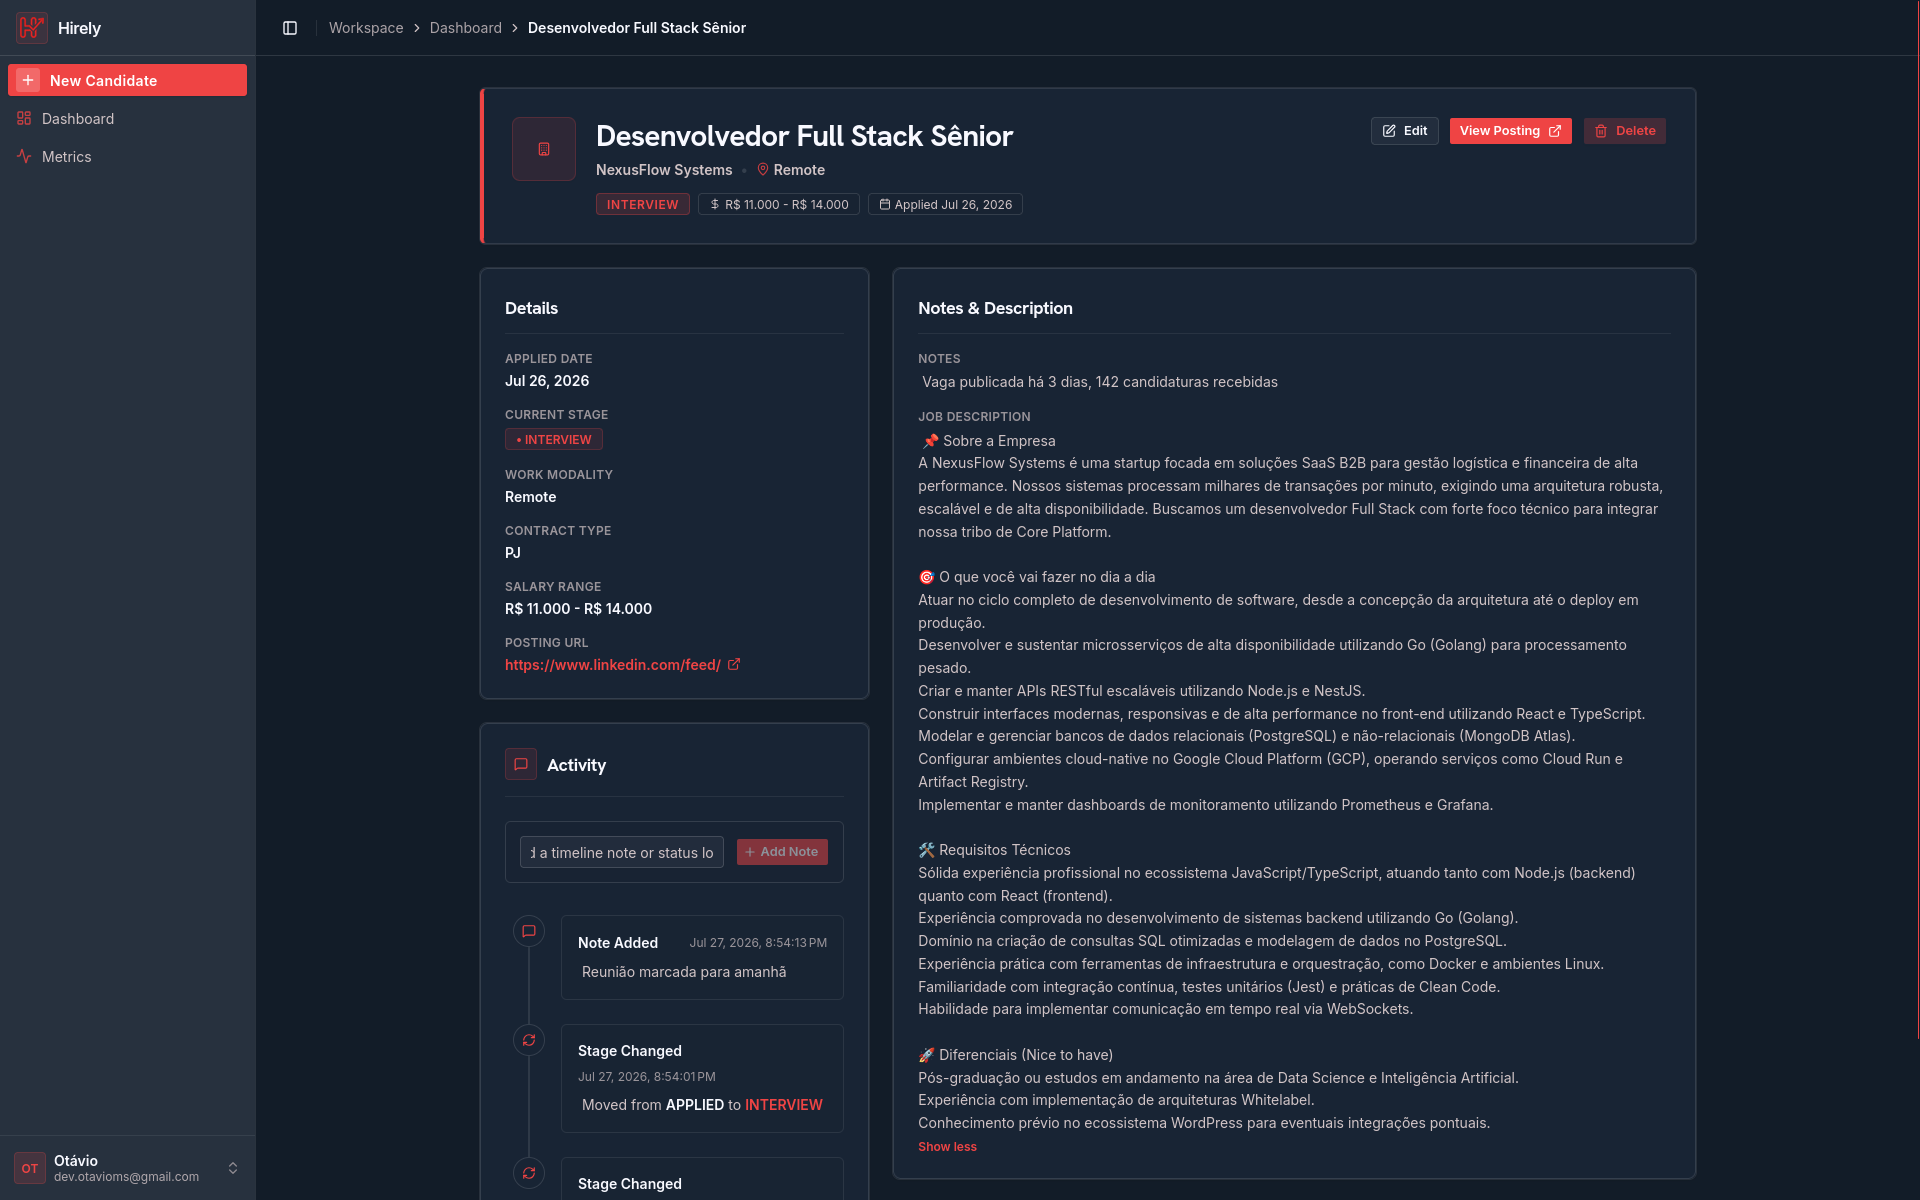
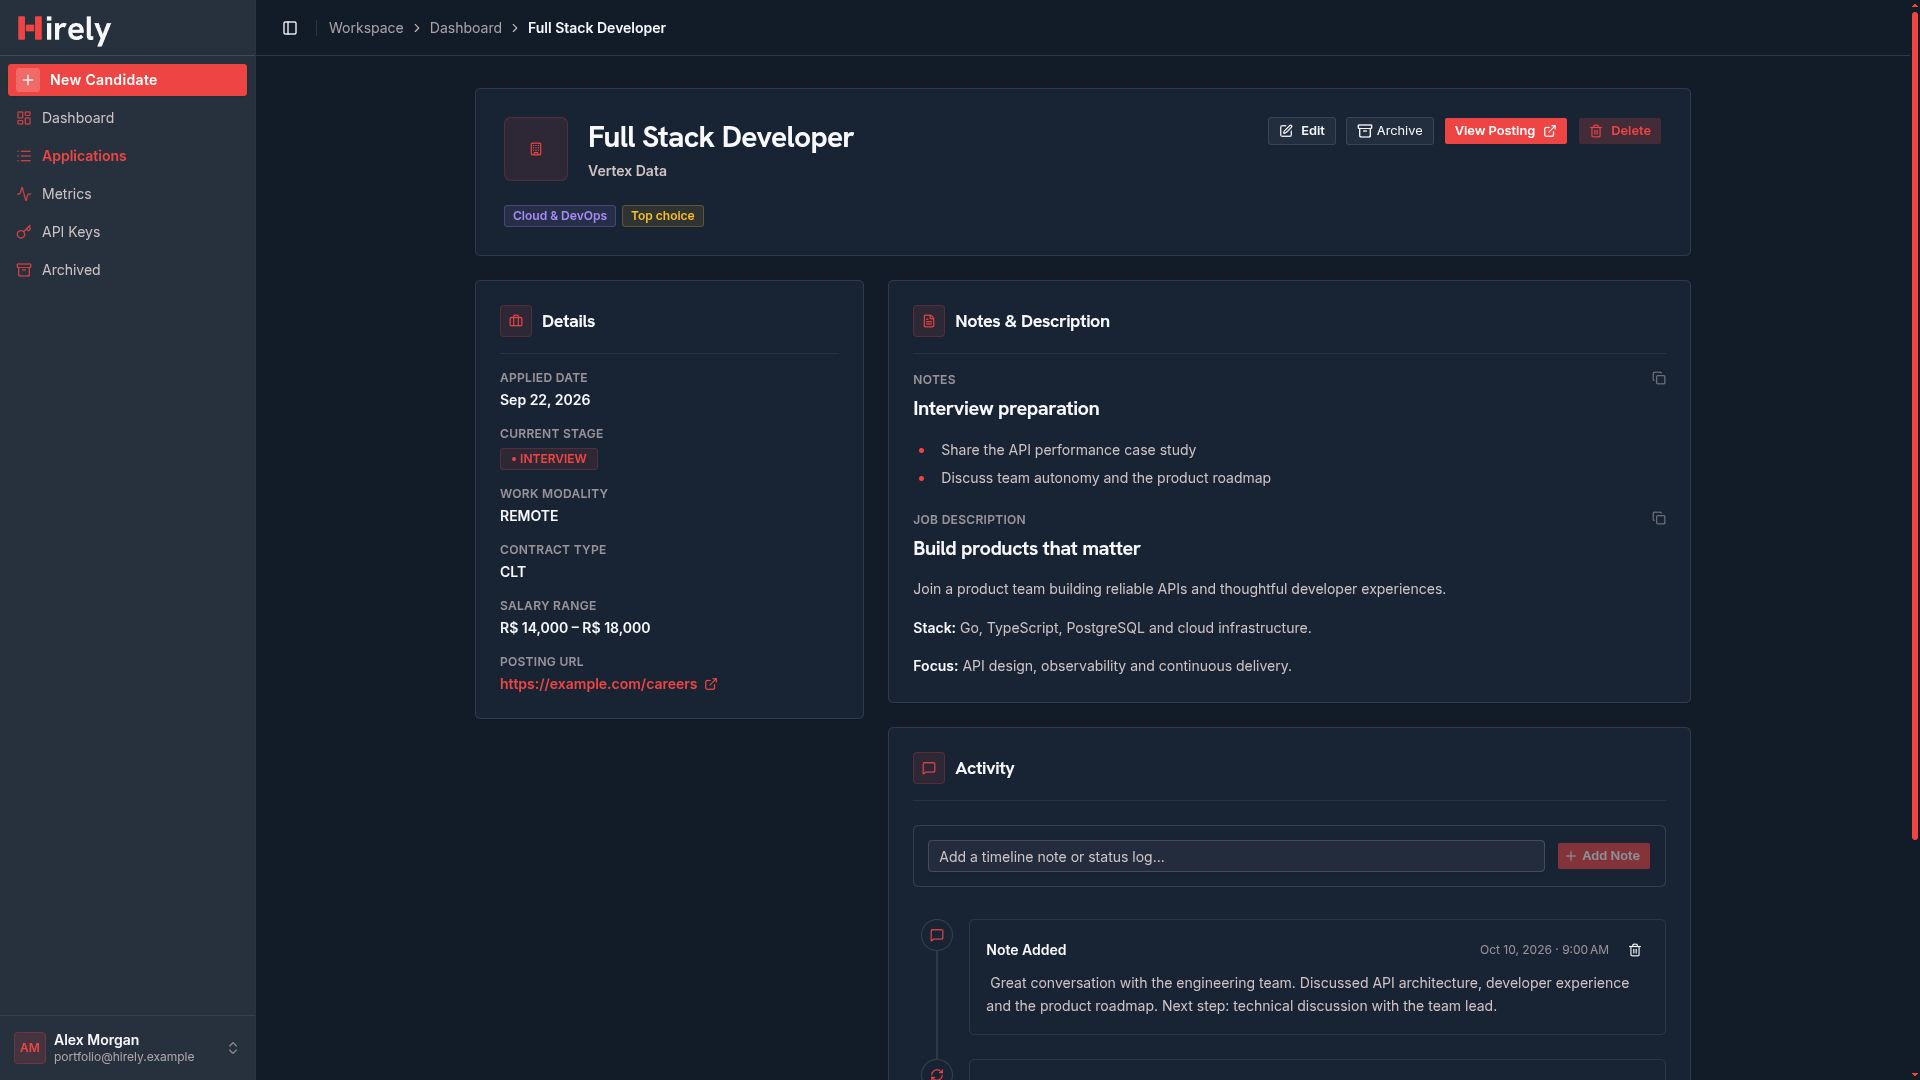
chore: new images for hirely project

diff --git a/src/components/Sections/Projects.tsx b/src/components/Sections/Projects.tsx
@@ -130,10 +130,13 @@ const Projects = ({ className }: { className?: string }) => {
         images: [
           "/assets/images/projects/hirely/hirely-home.png",
           "/assets/images/projects/hirely/hirely-dashboard.png",
+          "/assets/images/projects/hirely/hirely-applications.png",
           "/assets/images/projects/hirely/hirely-new-application.png",
           "/assets/images/projects/hirely/hirely-application-details.png",
           "/assets/images/projects/hirely/hirely-tags.png",
           "/assets/images/projects/hirely/hirely-metrics.png",
+          "/assets/images/projects/hirely/hirely-archived.png",
+          "/assets/images/projects/hirely/hirely-api-keys.png",
           "/assets/images/projects/hirely/hirely-login.png",
           "/assets/images/projects/hirely/hirely-register.png",
         ],
